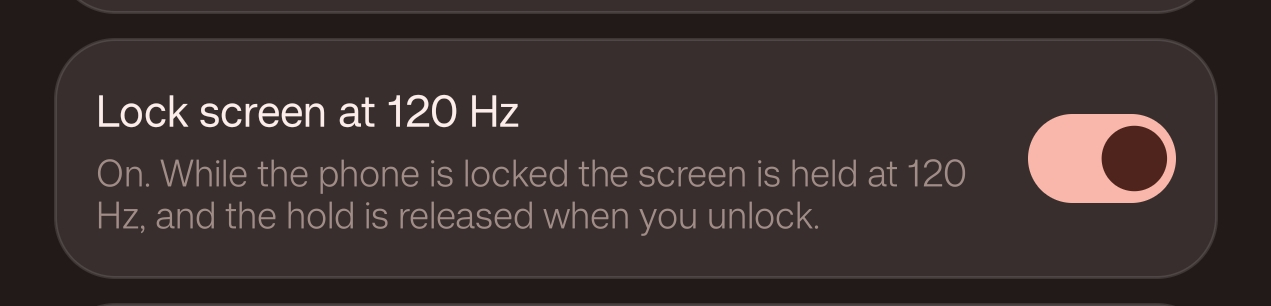
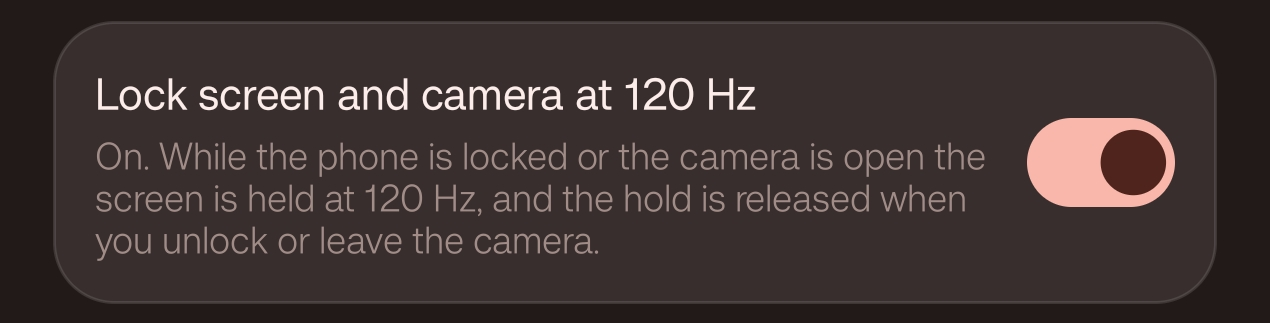
README: screenshot of the Lock screen and camera at 120 Hz switch

diff --git a/README.md b/README.md
@@ -85,7 +85,7 @@ You can have both. No adb needed:
 <p align="center">
   <img src="screenshot-standard.png" width="320" alt="ColorOS Screen refresh rate set to Standard, with the 165 Hz counter showing">
   <br>
-  <img src="screenshot-lock120.png" width="480" alt="165 Armer Settings: Lock screen at 120 Hz turned on">
+  <img src="screenshot-lock120.png" width="480" alt="165 Armer Settings: Lock screen and camera at 120 Hz turned on">
 </p>
 
 Now the UI runs at 165 Hz, and the lock screen and the camera's buttons and
